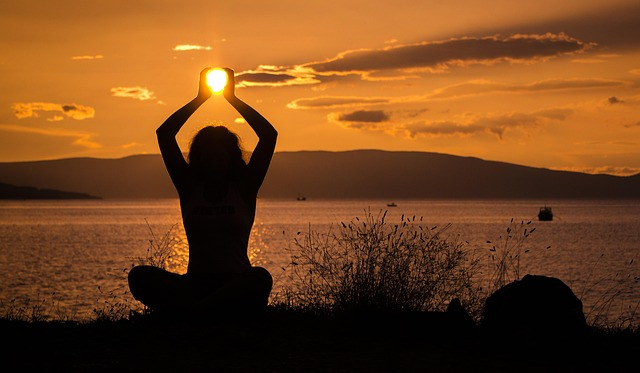
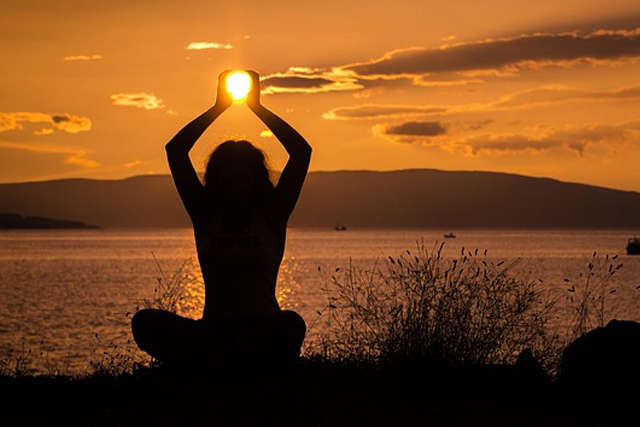
Beratung bild hinzufügen

diff --git a/index.html b/index.html
@@ -20,12 +20,16 @@
     <header class="main-content">
         <nav class="main-navbar">
             <ul>
-                <li><a href="index.html">Startseite</a></li>
+                <li><a href="index.html">Home</a></li>
                 <li><a href="#ueber-mich">Über Mich</a></li>
                 <li><a href="#meine-Motivation">Meine Motivation</a></li>
-                <li><a href=#erfahrungs-berichte">Erfahrungsberichte</a></li>
-                <li><a href="/seiten/kontakt.html">Kontakt</a></li>
-                <li><a href="/seiten/contact.html">Contact Test</a></li>
+                <li><a href="#angebot">Mein Angebot</a></li>
+                <!-- <li><a href="/seiten/kontakt.html">Kontakt</a></li> -->
+                <!-- <li><a href="/seiten/contact.html">Contact Test</a></li> -->
+                <img src="/bilder/phone.png"><a href="tel:+436506065904">06506065904</a>
+                <img src="bilder/email.png"><a href="mailto:karinwurzer@gmx.at">KarinWurzer@gmx.at</a>
+                <img src="bilder/instagram.png"><a href="https://www.instagram.com/riscattoaria"
+                    target="_blank">@riscattoaria_instagram</a>
 
             </ul>
         </nav>
@@ -43,35 +47,33 @@
                 <img src="bilder/Bild Karin.jpeg">
             </div>
             <div>
-                <p>Mein Name ist Karin Wurzer, ich bin 42 Jahre alt, Mama eines Sohnes und arbeite seit mittlerweile 19
-                    Jahren als Biomedizinische Analytikerin am Kepler Universitätsklinikum Linz im Bereich der
-                    Augenheilkunde. Schon immer haben mich die Themen Gesundheit Ernährung, Wohlbefinden und
-                    ganzheitliche
-                    Zusammenhänge fasziniert besonders auch deshalb, weil weiß, wie ich sehr körperliche Veränderungen
-                    das eigene
-                    Leben
-                    und Wohlbefinden beeinflussen können.</p>
-
-                <p> Seit über 8 Jahren begleite ich Menschen mit Homöopathie, Bachblüten und Blütenessenzen sowie
-                    Gespräche
-                    und alternativen Denkansätzen. Mir war dabei immer wichtig, nicht nur Symptome zu betrachten,
-                    sondern
-                    den Menschen ganz wahrzunehmen mit seiner Geschichte, seinem Alltag und allem, was ihn bewegt.
-                    Auch meine eigene Reise hat mich dabei immer wieder geprägt.
-                    Heute versuche ich, schulmedizischies Wissen und ganzheitliche Einsichten offen, achtsam und
-                    mitfühlend
-                    miteinander zu verbinden immer bewusst, dass jeder Menschen seinen ganz eigenen Weg hat.
+                <p> Ich bin Karin Wurzer, 42 Jahre alt, Mama eines Sohnes und begeistere mich für die Themen Gesundheit,
+                    Ernährung und ganzheitliches Wohlbefinden. Seit 19 Jahren arbeitet ich als Biomedizinische
+                    Analytikerin am Kepler Universitätsklinikum Linz in Augenheilkunde. Meine persönliche Leidenschaft
+                    gilt seit viele Jahren auch der Homöopathie und den vielfältigen Möglichkeiten der Blütenessenzen.
+                    Seit über 8 Jahren beswchäftige ich mich intensiv mit Homöopathie, Bachblüten sowie kalifornischen
+                    und australischen Blütenessenzen.
                 </p>
+                <br>
+                <p> Was mich besonders inspiriert, ist die Begegnung mit Menschen, das Zuhören und das gemeinsame
+                    Entdecken neuer Gedanken und Perspektiven. Dabei ist es mir wichtig, jeden Menschen mit seiner ganz
+                    persönlichen Geschichte und seinen Bedürfnissen wahrzunehmen.
+                    ich möchte Raum für neue Impulse schaffen, zum Nachdenken anregen und dazu einladen, das eigene
+                    Wohlbefinden aus unterschiedlichen Blickwinkeln zu entdecken.
+                </p>
+                <br>
+                <p> Den jeder Mensch ist einzigartig und jeder Weg darf ganz individeull sein. </p>
             </div>
         </section>
-        <section class="switch-bg-color flex-column">
+        <section id="meine-Motivation" class="switch-bg-color">
+            <img class="bild-beratung" src="bilder/beratung.jpeg">
             <ul>
                 <li>🌿Sanfte Genesung & neue Perspektiven: Naturheilkunde, Bachblüten,Blütenessenze und Gespräche</li>
                 <li>💧Im Einklang mit dir: Homöopathie, Blütenessenzen und Raum für neues Danken</li>
                 <li>✨Dein Weg zu mehr Balance: Begleitung mit Herz und Verstand</li>
             </ul>
         </section>
-        <section id="meine-Motivation">
+        <section id="angebot">
             <div class="motivationen">
                 <div class="img_container">
                     <img src="bilder\Stärke.jpg" alt=" Eigene Stärke entdecken">
@@ -93,7 +95,7 @@
                     <p>Wie oft versuchen wir, etwas zu verändern, legen aber gleichzeitig immer wieder Holz ins Feuer?
                         Wir möchten, dass es uns besser geht, übersehen dabei aber manchmal unsere eigenen Gewohnheiten
                         und Verhaltensmuster.</p>
-                        <br>
+                    <br>
                     <p> Hilfe zur Selbsthilfe beginnt deshalb mit bewusstem Hinspüren: Was tut mir gut? Was stärkt mich?
                         Und was darf ich Schritt für Schritt verändern?</p>
                     <br>
@@ -109,20 +111,16 @@
                     <br>
                     <p>Ein offenes Ohr, eine ehrliche Aussprache und die Frage nach dem nächsten möglichen Schritt sind
                         wesentliche Bestandteile meiner Arbeit.</p>
-                        <br>
+                    <br>
                     <p>Begleitend dazu setze ich Homöopathie und Blütenessenzen ein, die ich als persönliche Ergänzung
                         meiner Begleitung verstehe.</p>
-                        <br>
+                    <br>
                     <p>
-                    
-                    Es geht nicht darum, alles sofort verändern oder Symptome um jeden Preis loswerden zu wollen.
-                    Vielmehr möchte ich Menschen dabei unterstützen, sich selbst besser wahrzunehmen, neue Perspektiven
-                    zu entdecken und Schritt für Schritt ihren eigenen Weg zu finden.</p>
-                    <br>
-                    <p>Manchmal braucht es nur einen kleinen Impuls, damit etwas Großes in Bewegung kommt.</p>
-                    <br>
-                    <p>So würde ich es auf der Website gestalten</p>
-                    <br>
+
+                        Es geht nicht darum, alles sofort verändern oder Symptome um jeden Preis loswerden zu wollen.
+                        Vielmehr möchte ich Menschen dabei unterstützen, sich selbst besser wahrzunehmen, neue
+                        Perspektiven
+                        zu entdecken und Schritt für Schritt ihren eigenen Weg zu finden.</p>
                 </div>
             </div>
         </section>
@@ -161,16 +159,13 @@
             </p>
             <p>Instagram:<a href="https://www.instagram.com/riscattoaria" target="_blank">@riscattoaria_instagram</a>
             </p>
-
-
-        </div>
-
-        <p class="Copyright">&copy; 2026 Karin. Alle Rechte vorbehalten.</p>
+            <br>
+            <p class="Copyright">&copy; 2026 Karin. Alle Rechte vorbehalten.</p>
     </footer id="impressum" class="impressum-section">
 
     <script src="index.js">
 
-
+</div >
     </script>
 </body>
 

diff --git a/style.css b/style.css
@@ -11,7 +11,7 @@
     --ueberschriften: Grechen Fuemen;
 
     /* Hauptfarbe für Elemente oder Überschriften */
-    --haupt-farbe: #b1710aad;
+    --haupt-farbe: #664004ad;
 
     /* Hintergrundfarbe der Seite */
     --hintergrund-farbe: #fafaf9e6;
@@ -20,7 +20,7 @@
     --schrift-farbe: #000;
 
     /* Zweitfarbe (z. B. für Akzente oder Hover-Effekte) */
-    --zweit-farbe: #b1710aad;
+    --zweit-farbe: #664004ad;
 
     /* Dritte Farbe für zusätzliche Akzente */
     --dritt-farbe: #80ED99;
@@ -69,7 +69,7 @@ h1, h2, h3, h4, h5, h6 {
 .main-navbar {
     /* Nutzt Flexbox, um Elemente nebeneinander anzuordnen */
     display: flex;
-
+    height: 10vh;
     /* Platzierung: Abstand zwischen linkem und rechtem Bereich (z. B. Logo und Menü) */
     justify-content: space-between;
 
@@ -90,7 +90,7 @@ ul {
     z-index: 9999; /* Liegt ganz oben über allem */
     transition: opacity 1s ease; /* Macht das Ausblenden weich */
     font-size: 1.8rem;
-    color: rgb(186, 148, 123);
+    color: rgba(207, 154, 95, 0.914);
     max-width: 600px;
     line-height: 1.4;
     text-align: center;
@@ -117,6 +117,9 @@ ul {
 
     /* Erlaubt Umbruch, wenn nicht genug Platz ist */
     flex-wrap: wrap;
+}
+.main-navbar img{
+    max-width: 10px;
 }
 
 /* Allgemeines Styling für Links */
@@ -230,6 +233,10 @@ img {
     /* Bilder dürfen maximal 300 px breit sein */
     width: 200px;
 }
+.bild-beratung{
+    width: 350px;
+
+}
 
 .motivationen {
     display: flex;
@@ -237,13 +244,14 @@ img {
 }
 .img_container {
     /* border: 1px solid red; */
-    /* width: 33%;s */
+    width: 33%;
     display: flex;
     flex-direction: column;
     align-items: center;
 
     img {
-        width: 300px;
+        width: 350px;
+        height: auto;
         margin-bottom: 2rem;
     }
 }
@@ -266,7 +274,7 @@ footer {
     align-items: center;
 
     /* Textfarbe weiß */
-    color: white;
+    color: rgb(19, 17, 17);
 
     /* Mindesthöhe der Fußzeile */
     min-height: 15vh;
@@ -284,7 +292,7 @@ footer {
 /* Footer-Links */
 .footer-navbar a {
     /* Weiße Schriftfarbe */
-    color: white;
+    color: rgb(9, 9, 9);
 }
 
 /* Hover-Effekt für Footer-Links */
@@ -292,7 +300,10 @@ footer {
     /* Unterstreichung mit Akzentfarbe */
     text-decoration: underline var(--zweit-farbe) 3px;
 }
-
+#angebot{
+    padding-left: 4rem;
+    padding-right: 4rem;
+}
 /* Media Query: Regeln für kleine Bildschirme (max. 500px) */
 @media screen and (max-width: 500px) {
 
